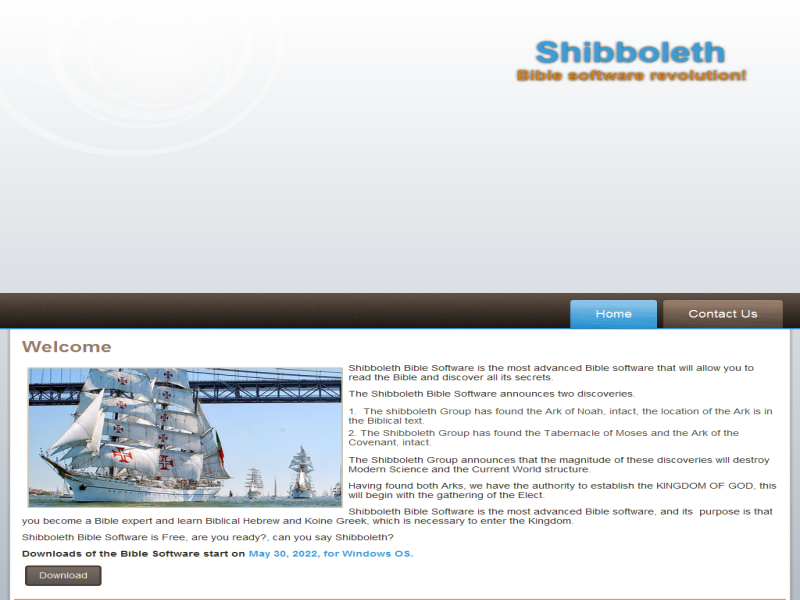
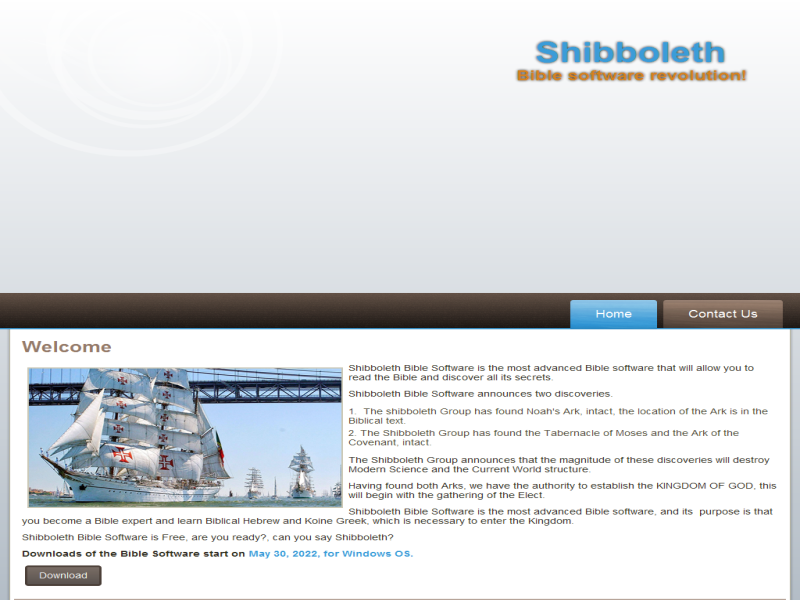
5

Changed region(s): [[0.4375, 0.63, 0.9688, 0.69], [0.4375, 0.69, 0.5312, 0.72]]

diff --git a/home.html b/home.html
@@ -316,10 +316,10 @@ height: 10px;
     <div class="art-content-layout-row">
     <div class="art-layout-cell layout-item-1" style="width: 100%" >
         <h3>Welcome</h3>
-        <p><img style="float: left; border-top-style: solid; border-right-style: solid; border-bottom-style: solid; border-left-style: solid; border-top-color: rgb(202, 199, 180); border-right-color: rgb(202, 199, 180); border-bottom-color: rgb(202, 199, 180); border-left-color: rgb(202, 199, 180); border-top-width: 2px; border-right-width: 2px; border-bottom-width: 2px; border-left-width: 2px; " width="400" height="236" alt="" class="art-lightbox" src="images/24a97328-77b2-47aa-8dc5-d552c528ea3d.png">
+        <p><img style="float: left; border-top-style: solid; border-right-style: solid; border-bottom-style: solid; border-left-style: solid; border-top-color: rgb(202, 199, 180); border-right-color: rgb(202, 199, 180); border-bottom-color: rgb(202, 199, 180); border-left-color: rgb(202, 199, 180); border-top-width: 2px; border-right-width: 2px; border-bottom-width: 2px; border-left-width: 2px;" width="400" height="236" alt="" class="art-lightbox" src="images/24a97328-77b2-47aa-8dc5-d552c528ea3d.png">
         </p><p>
         </p><p>
-        </p><p style="font-weight: 400; background-color: rgb(255, 255, 255);">Shibboleth Bible Software is the most advanced Bible software that will allow you to read the Bible and discover all its secrets.</p><p style="font-weight: 400; background-color: rgb(255, 255, 255);"></p><p><span style="font-size: 14px;">The Shibboleth Bible Software announces two discoveries.</span></p><ol><li><span style="font-size: 14px;">&nbsp;<span style="color: rgb(75, 72, 53);">The shibboleth Group has found the Ark of Noah, intact, the location of the Ark is in the Biblical text.</span></span><br></li><li><span style="font-size: 14px;">The Shibboleth Group has found the Tabernacle of Moses and the Ark of the Covenant, intact.</span><br></li></ol><p></p><p style="font-weight: 400; background-color: rgb(255, 255, 255);">The Shibboleth Group announces that the magnitude of these discoveries will destroy Modern Science and the Current World structure.</p><p style="font-weight: 400; background-color: rgb(255, 255, 255);">Having found both Arks, we have the authority to establish the KINGDOM OF GOD, this will begin with the gathering of the Elect.</p><p style="font-weight: 400; background-color: rgb(255, 255, 255);">Shibboleth Bible Software is the most advanced Bible software, and its &nbsp;purpose is that you become a Bible expert and learn Biblical Hebrew and Koine Greek, which is necessary to enter the Kingdom.<br></p><p style="font-weight: 400; background-color: rgb(255, 255, 255);">Shibboleth Bible Software is Free, are you ready?, can you say Shibboleth?</p><p style="background-color: rgb(255, 255, 255);"><span style="font-weight: 400;"><span style="font-weight: bold;">Downloads of the Bible Software start on</span>&nbsp;</span><span style="font-weight: bold; color: #379AD7;">May 30,<span style="color: #379AD7;">&nbsp;2022</span>, for Windows OS.</span></p><p><span style="font-weight: bold;"></span></p><p>&nbsp;<a href="#" class="art-button">Download</a>&nbsp;<br><span style="font-weight: bold; color: #2379AF;"></span></p>
+        </p><p style="font-weight: 400; background-color: rgb(255, 255, 255);">Shibboleth Bible Software is the most advanced Bible software that will allow you to read the Bible and discover all its secrets.</p><p style="font-weight: 400; background-color: rgb(255, 255, 255);">Shibboleth Bible Software announces two discoveries.</p><ol><li><span style="font-size: 14px;">&nbsp;<span style="color: rgb(75, 72, 53);">The shibboleth Group has found Noah's Ark, intact, the location of the Ark is in the Biblical text.</span></span><br></li><li><span style="font-size: 14px;">The Shibboleth Group has found the Tabernacle of Moses and the Ark of the Covenant, intact.</span><br></li></ol><p style="font-weight: 400; background-color: rgb(255, 255, 255);">The Shibboleth Group announces that the magnitude of these discoveries will destroy Modern Science and the Current World structure.</p><p style="font-weight: 400; background-color: rgb(255, 255, 255);">Having found both Arks, we have the authority to establish the KINGDOM OF GOD, this will begin with the gathering of the Elect.</p><p style="font-weight: 400; background-color: rgb(255, 255, 255);">Shibboleth Bible Software is the most advanced Bible software, and its &nbsp;purpose is that you become a Bible expert and learn Biblical Hebrew and Koine Greek, which is necessary to enter the Kingdom.<br></p><p style="font-weight: 400; background-color: rgb(255, 255, 255);">Shibboleth Bible Software is Free, are you ready?, can you say Shibboleth?</p><p style="background-color: rgb(255, 255, 255);"><span style="font-weight: 400;"><span style="font-weight: bold;">Downloads of the Bible Software start on</span>&nbsp;</span><span style="font-weight: bold; color: #379AD7;">May 30,<span style="color: #379AD7;">&nbsp;2022</span>, for Windows OS.</span></p><p><span style="font-weight: bold;"></span></p><p>&nbsp;<a href="#" class="art-button">Download</a>&nbsp;<br><span style="font-weight: bold; color: #2379AF;"></span></p>
     </div>
     </div>
 </div>
@@ -377,6 +377,7 @@ height: 10px;
     </div>
 
         
+         
          
          
          

diff --git a/index.html b/index.html
@@ -316,10 +316,10 @@ height: 10px;
     <div class="art-content-layout-row">
     <div class="art-layout-cell layout-item-1" style="width: 100%" >
         <h3>Welcome</h3>
-        <p><img style="float: left; border-top-style: solid; border-right-style: solid; border-bottom-style: solid; border-left-style: solid; border-top-color: rgb(202, 199, 180); border-right-color: rgb(202, 199, 180); border-bottom-color: rgb(202, 199, 180); border-left-color: rgb(202, 199, 180); border-top-width: 2px; border-right-width: 2px; border-bottom-width: 2px; border-left-width: 2px; " width="400" height="236" alt="" class="art-lightbox" src="images/24a97328-77b2-47aa-8dc5-d552c528ea3d.png">
+        <p><img style="float: left; border-top-style: solid; border-right-style: solid; border-bottom-style: solid; border-left-style: solid; border-top-color: rgb(202, 199, 180); border-right-color: rgb(202, 199, 180); border-bottom-color: rgb(202, 199, 180); border-left-color: rgb(202, 199, 180); border-top-width: 2px; border-right-width: 2px; border-bottom-width: 2px; border-left-width: 2px;" width="400" height="236" alt="" class="art-lightbox" src="images/24a97328-77b2-47aa-8dc5-d552c528ea3d.png">
         </p><p>
         </p><p>
-        </p><p style="font-weight: 400; background-color: rgb(255, 255, 255);">Shibboleth Bible Software is the most advanced Bible software that will allow you to read the Bible and discover all its secrets.</p><p style="font-weight: 400; background-color: rgb(255, 255, 255);"></p><p><span style="font-size: 14px;">The Shibboleth Bible Software announces two discoveries.</span></p><ol><li><span style="font-size: 14px;">&nbsp;<span style="color: rgb(75, 72, 53);">The shibboleth Group has found the Ark of Noah, intact, the location of the Ark is in the Biblical text.</span></span><br></li><li><span style="font-size: 14px;">The Shibboleth Group has found the Tabernacle of Moses and the Ark of the Covenant, intact.</span><br></li></ol><p></p><p style="font-weight: 400; background-color: rgb(255, 255, 255);">The Shibboleth Group announces that the magnitude of these discoveries will destroy Modern Science and the Current World structure.</p><p style="font-weight: 400; background-color: rgb(255, 255, 255);">Having found both Arks, we have the authority to establish the KINGDOM OF GOD, this will begin with the gathering of the Elect.</p><p style="font-weight: 400; background-color: rgb(255, 255, 255);">Shibboleth Bible Software is the most advanced Bible software, and its &nbsp;purpose is that you become a Bible expert and learn Biblical Hebrew and Koine Greek, which is necessary to enter the Kingdom.<br></p><p style="font-weight: 400; background-color: rgb(255, 255, 255);">Shibboleth Bible Software is Free, are you ready?, can you say Shibboleth?</p><p style="background-color: rgb(255, 255, 255);"><span style="font-weight: 400;"><span style="font-weight: bold;">Downloads of the Bible Software start on</span>&nbsp;</span><span style="font-weight: bold; color: #379AD7;">May 30,<span style="color: #379AD7;">&nbsp;2022</span>, for Windows OS.</span></p><p><span style="font-weight: bold;"></span></p><p>&nbsp;<a href="#" class="art-button">Download</a>&nbsp;<br><span style="font-weight: bold; color: #2379AF;"></span></p>
+        </p><p style="font-weight: 400; background-color: rgb(255, 255, 255);">Shibboleth Bible Software is the most advanced Bible software that will allow you to read the Bible and discover all its secrets.</p><p style="font-weight: 400; background-color: rgb(255, 255, 255);">Shibboleth Bible Software announces two discoveries.</p><ol><li><span style="font-size: 14px;">&nbsp;<span style="color: rgb(75, 72, 53);">The shibboleth Group has found Noah's Ark, intact, the location of the Ark is in the Biblical text.</span></span><br></li><li><span style="font-size: 14px;">The Shibboleth Group has found the Tabernacle of Moses and the Ark of the Covenant, intact.</span><br></li></ol><p style="font-weight: 400; background-color: rgb(255, 255, 255);">The Shibboleth Group announces that the magnitude of these discoveries will destroy Modern Science and the Current World structure.</p><p style="font-weight: 400; background-color: rgb(255, 255, 255);">Having found both Arks, we have the authority to establish the KINGDOM OF GOD, this will begin with the gathering of the Elect.</p><p style="font-weight: 400; background-color: rgb(255, 255, 255);">Shibboleth Bible Software is the most advanced Bible software, and its &nbsp;purpose is that you become a Bible expert and learn Biblical Hebrew and Koine Greek, which is necessary to enter the Kingdom.<br></p><p style="font-weight: 400; background-color: rgb(255, 255, 255);">Shibboleth Bible Software is Free, are you ready?, can you say Shibboleth?</p><p style="background-color: rgb(255, 255, 255);"><span style="font-weight: 400;"><span style="font-weight: bold;">Downloads of the Bible Software start on</span>&nbsp;</span><span style="font-weight: bold; color: #379AD7;">May 30,<span style="color: #379AD7;">&nbsp;2022</span>, for Windows OS.</span></p><p><span style="font-weight: bold;"></span></p><p>&nbsp;<a href="#" class="art-button">Download</a>&nbsp;<br><span style="font-weight: bold; color: #2379AF;"></span></p>
     </div>
     </div>
 </div>
@@ -377,6 +377,7 @@ height: 10px;
     </div>
 
         
+         
          
          
          
